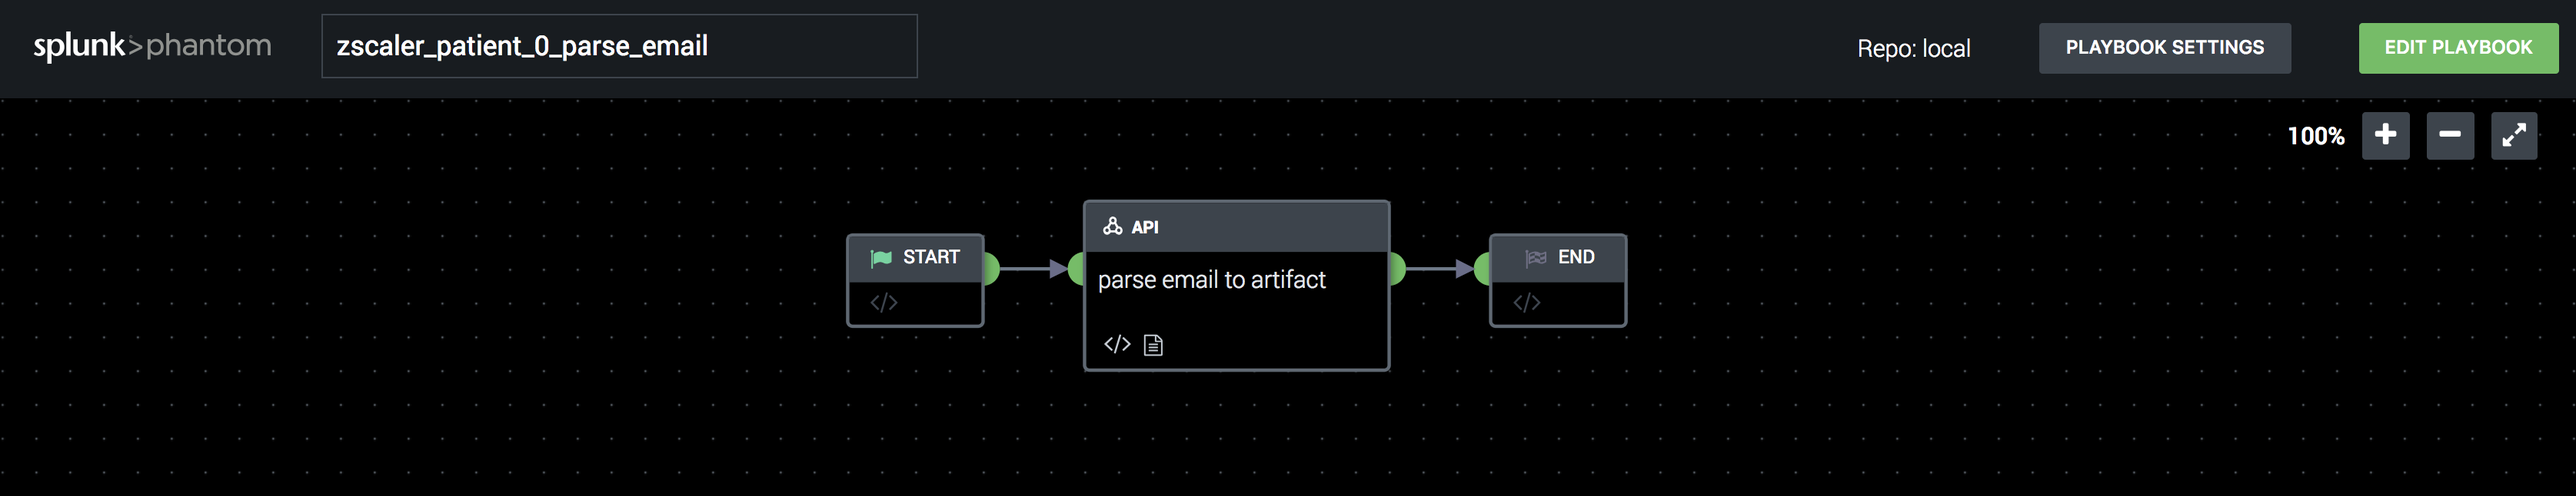
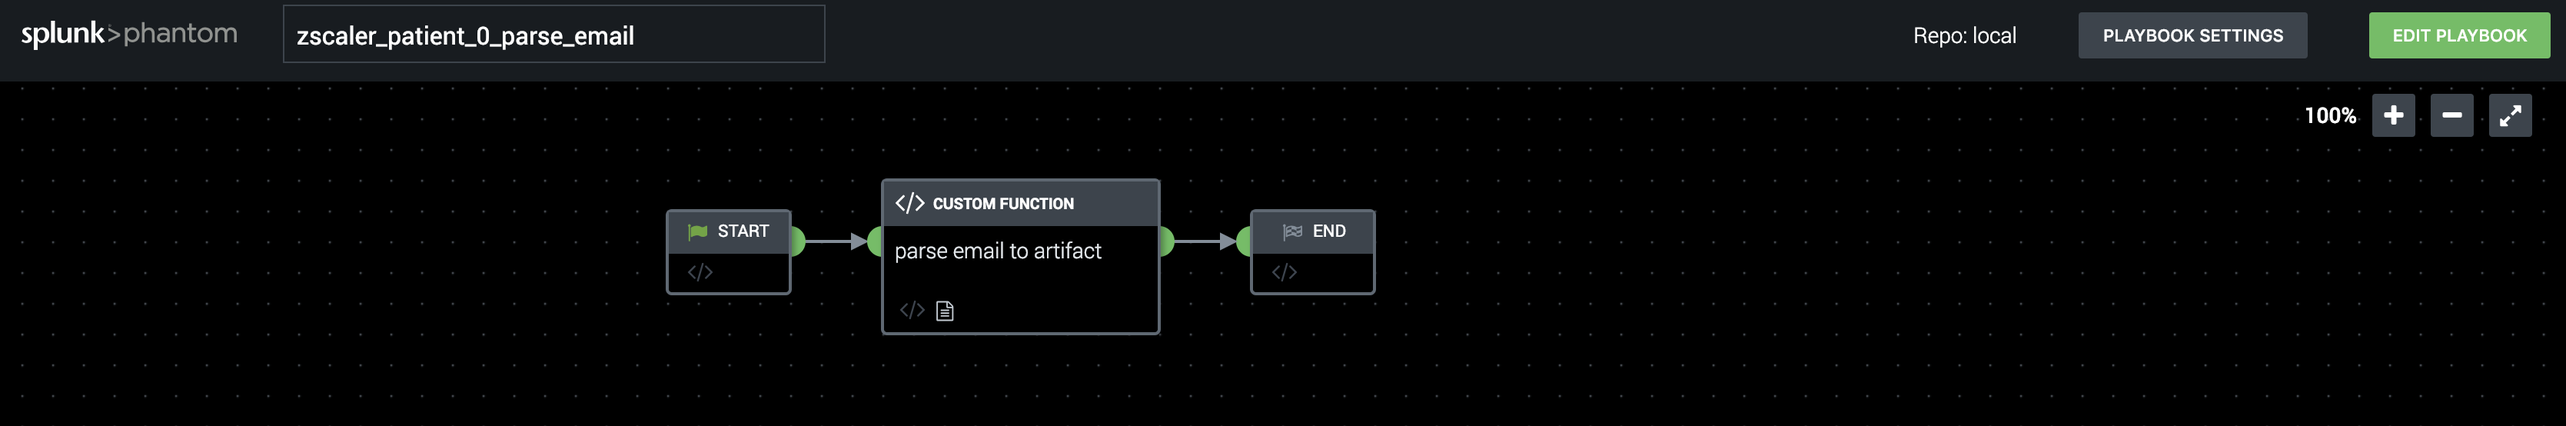
update zscaler with custom code block
Replace the old-style custom code block in
zscaler_patient_0_parse_email with the new 4.2 custom code block.

diff --git a/zscaler_patient_0_parse_email.py b/zscaler_patient_0_parse_email.py
@@ -31,6 +31,11 @@ Uses custom python to parse out the relevant fields from the Patient 0 alert ema
 """
 def parse_email_to_artifact(action=None, success=None, container=None, results=None, handle=None, filtered_artifacts=None, filtered_results=None):
     phantom.debug('parse_email_to_artifact() called')
+    input_parameter_0 = ""
+
+    ################################################################################
+    ## Custom Code Start
+    ################################################################################
 
     FIELD_TRANSLATOR = {
         'Cloud and Organization': 'environment',
@@ -99,6 +104,10 @@ def parse_email_to_artifact(action=None, success=None, container=None, results=N
     success, message, container_id = phantom.create_container(name=container['name'], label='events')
     
     phantom.add_artifact(container=container_id, raw_data=raw, cef_data=cef, label='event', name='zScaler Alert Artifact', severity = 'medium', identifier=str(uuid.uuid4()), artifact_type='network')
+
+    ################################################################################
+    ## Custom Code End
+    ################################################################################
 
     return
 
